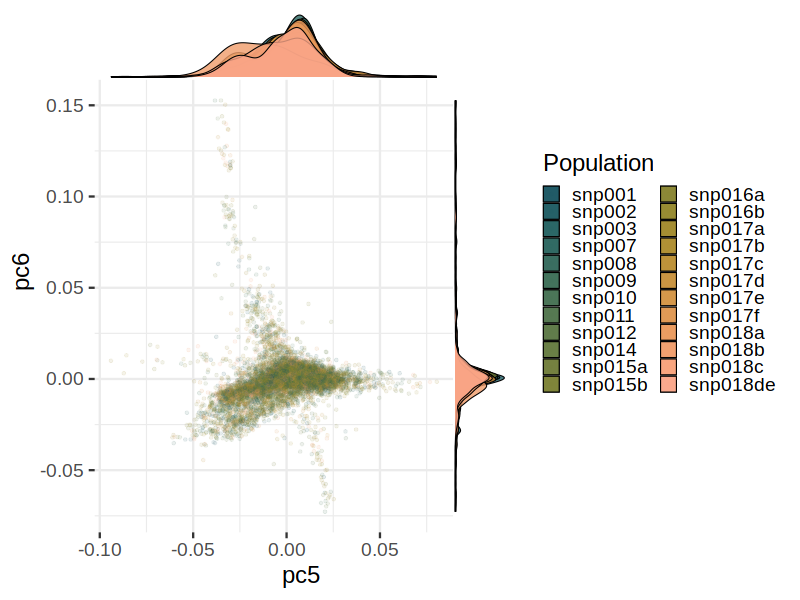
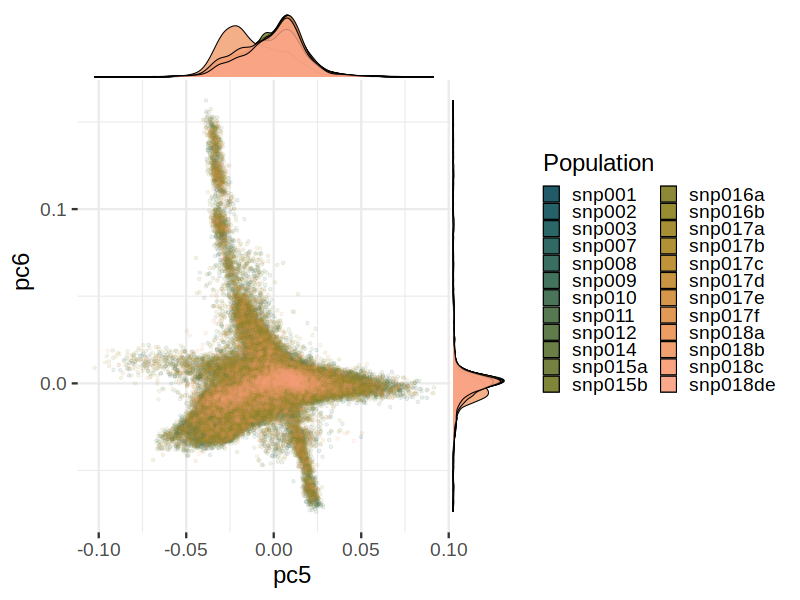
pc batch plots

diff --git a/qc-pipeline/docs/2024.07.01/pca_batches.md b/qc-pipeline/docs/2024.07.01/pca_batches.md
@@ -2,31 +2,31 @@
 Principal component analysis of the MoBa samples vs genotyping batch.
 | Batch | Number of samples |
 | ----- | ----------------- |
-| snp001 | 783 |
-| snp002 | 82 |
-| snp003 | 554 |
-| snp007 | 138 |
-| snp008 | 122 |
-| snp009 | 744 |
-| snp010 | 440 |
-| snp011 | 224 |
-| snp012 | 758 |
-| snp014 | 358 |
-| snp015a | 580 |
-| snp015b | 186 |
-| snp016a | 1111 |
-| snp016b | 1053 |
-| snp017a | 1086 |
-| snp017b | 194 |
-| snp017c | 221 |
-| snp017d | 257 |
-| snp017e | 196 |
-| snp017f | 238 |
-| snp018a | 215 |
-| snp018b | 118 |
-| snp018c | 228 |
-| snp018de | 114 |
-| Total | 10000 |
+| snp001 | 18473 |
+| snp002 | 1662 |
+| snp003 | 12700 |
+| snp007 | 2970 |
+| snp008 | 2841 |
+| snp009 | 17484 |
+| snp010 | 9567 |
+| snp011 | 5157 |
+| snp012 | 17582 |
+| snp014 | 8781 |
+| snp015a | 13365 |
+| snp015b | 4363 |
+| snp016a | 24686 |
+| snp016b | 24749 |
+| snp017a | 24757 |
+| snp017b | 4645 |
+| snp017c | 4742 |
+| snp017d | 5566 |
+| snp017e | 4565 |
+| snp017f | 5210 |
+| snp018a | 5372 |
+| snp018b | 2676 |
+| snp018c | 5545 |
+| snp018de | 2160 |
+| Total | 229618 |
 ### pc2 vs. pc1
 ![](plot/pc1_pc2_batch.png)
 ### pc3 vs. pc2
